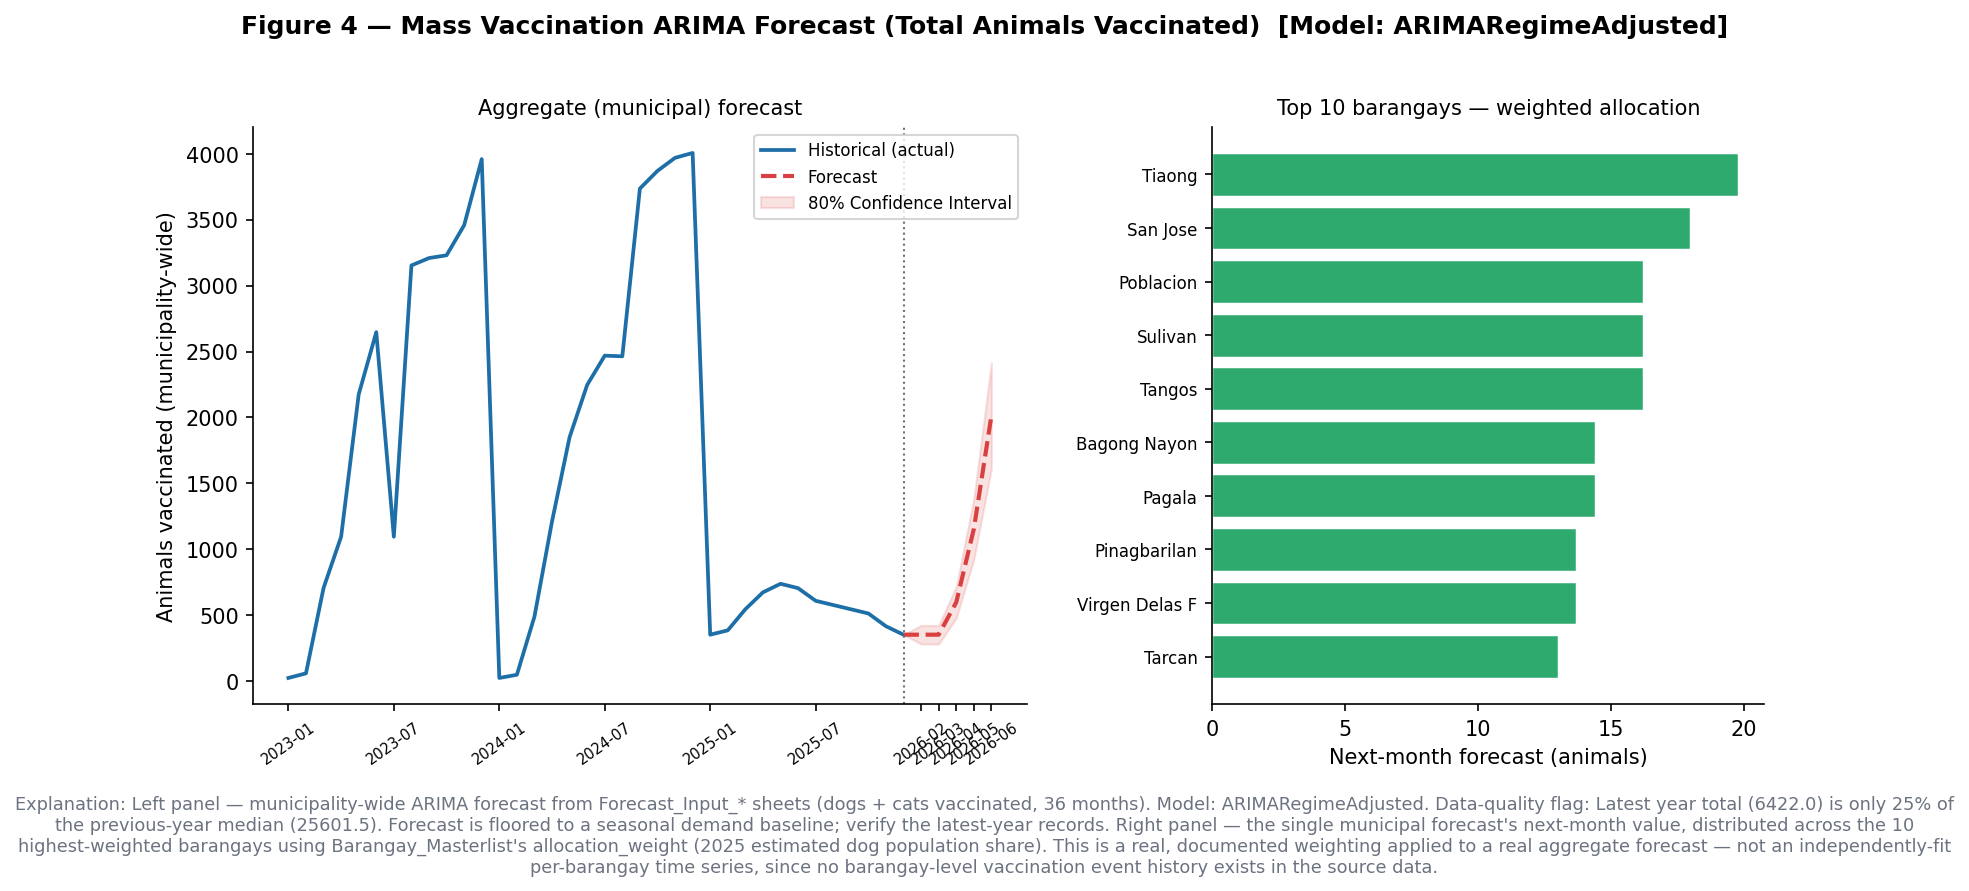
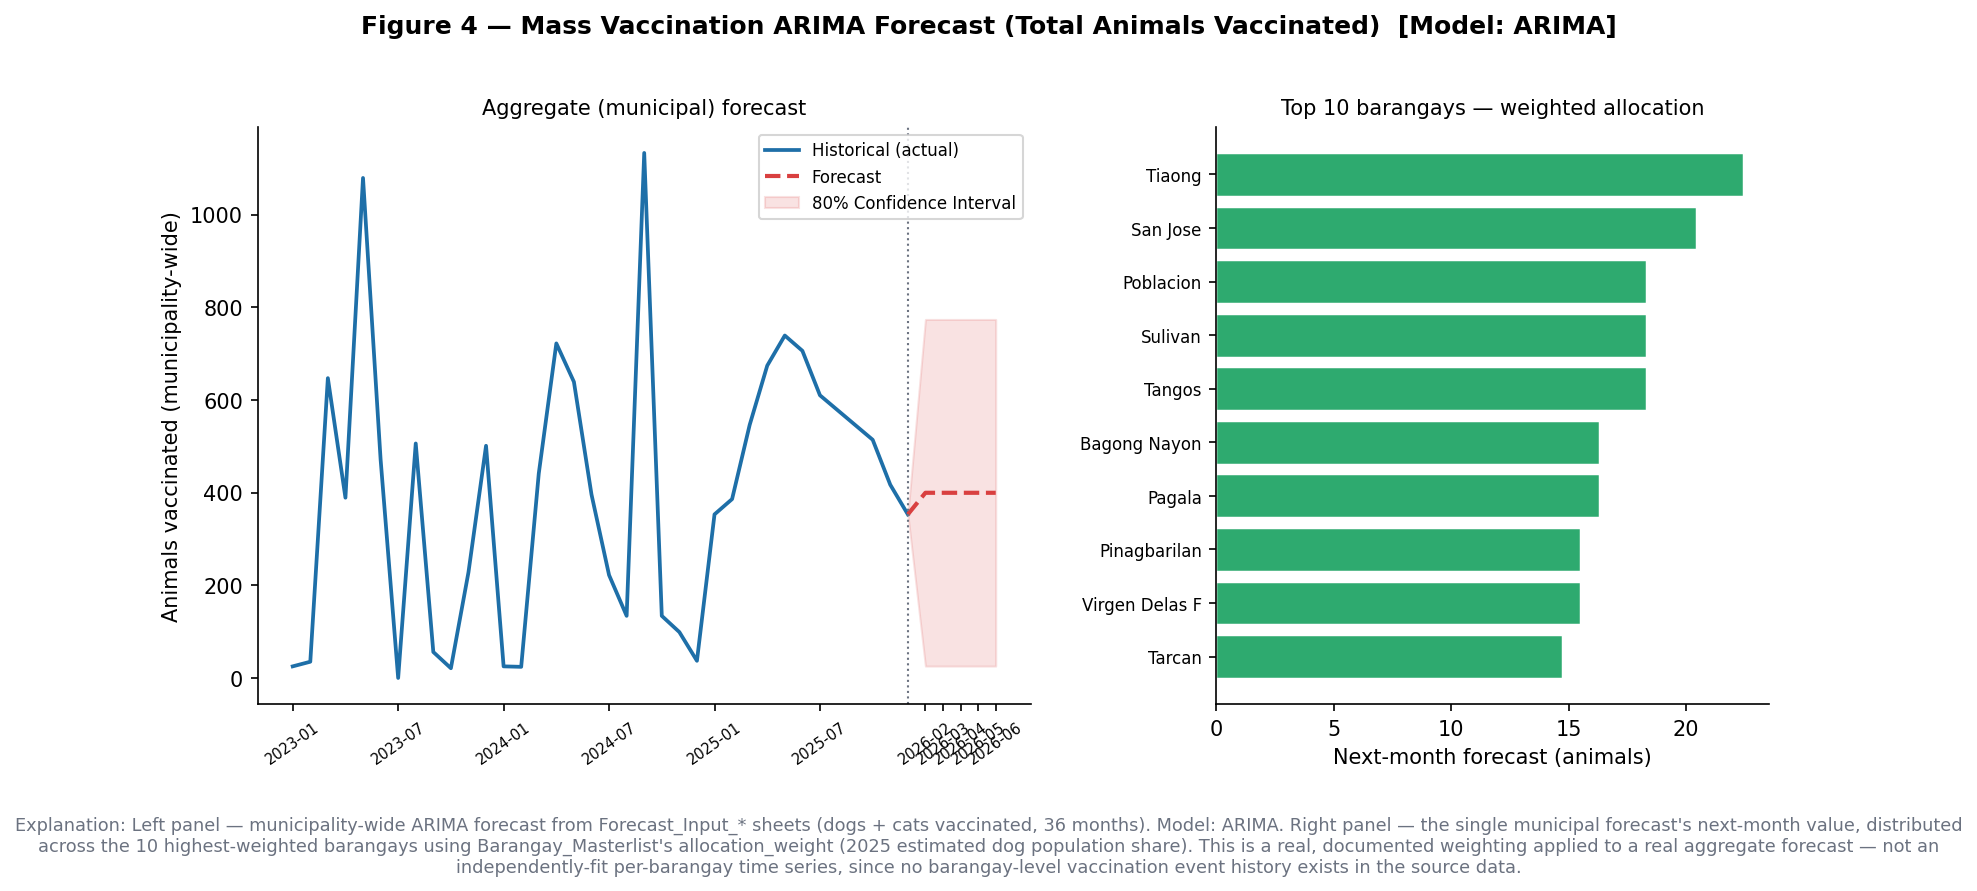
Fix test_eval.py for the 3-tuple series loader; correct stale Figure 4 text
load_vaccination_series() started returning (series_dict, dataframe, live_meta)
in 5ffa9dc when the live mass_vaccination_events feed was added. I checked call
sites inside arima_service.py but not the rest of the repo, so test_eval.py -
the thesis evaluation script - died with "too many values to unpack" at Figure
4 and never reached the ARIMA regression metrics below it. Fixed, and it now
prints the live-data state alongside the forecast.

Figure 4's interpretation was also stale: it claimed the model "accounts for
the 2023-2025 data-basis difference by flooring to a seasonal baseline". That
stopped being true once the workbook was de-cumulated - the guard no longer
fires and the fit is a clean ARIMA. The text now states the actual mechanism:
2023/24 are year-to-date running totals, de-cumulated before fitting, giving
3,959 / 4,006 / 6,422 instead of 24,815 / 26,388 / 6,422.

Only fig4_vaccination_forecast.png changed on regeneration; every disease
figure is byte-identical, confirming the disease pipeline is untouched.

Full run: PHPUnit 20/20, pytest 15/15, test_eval.py exits 0.

diff --git a/api/analytics/test_eval.py b/api/analytics/test_eval.py
@@ -354,7 +354,9 @@ from arima_service import (
     load_barangay_allocation_weights, forecast_vaccination_by_barangay,
 )
 
-vacc_series_dict, _ = load_vaccination_series()
+# load_vaccination_series() returns (series_dict, dataframe, live_meta) since the
+# live mass_vaccination_events feed was added.
+vacc_series_dict, _, vacc_live_meta = load_vaccination_series()
 vacc_series  = vacc_series_dict["total_vaccinated"]
 vacc_fc_steps = 6
 vacc_result  = run_vaccination_arima(vacc_series, steps=vacc_fc_steps)
@@ -428,6 +430,7 @@ plt.tight_layout()
 _save(fig, "fig4_vaccination_forecast.png")
 
 print(f"  Aggregate forecast: {vacc_result['forecast']}  |  Trend: {vacc_result['trend']}")
+print(f"  Forecast input     : {vacc_live_meta['source']}  |  live DB months available {vacc_live_meta['db_months_available']}, used {vacc_live_meta['db_months_used']} (threshold {vacc_live_meta['db_months_required']})")
 if note_txt:
     print(f"  Data quality note: {note_txt}")
 print("  Top 5 barangays (next-month allocation):")
@@ -436,10 +439,15 @@ for b, v in barangay_next_month[:5]:
 
 print(_wrap(
     "INTERPRETATION — Figure 4: The municipal forecast (left) is the only real, ARIMA-fitted "
-    "time series available for vaccination demand — it already accounts for the 2023-2025 "
-    "data-basis difference (see data-quality flag above; 2025 uses one official annual total "
-    "allocated across months rather than granular monthly logs, per the workbook's own README) "
-    "by flooring to a seasonal baseline. The per-barangay breakdown (right) answers the "
+    "time series available for vaccination demand. The workbook records 2023 and 2024 as "
+    "year-to-date running totals ('Photo-derived accomplishment summary') and 2025 as one "
+    "official annual total allocated across months, so the 2023/24 years are de-cumulated "
+    "back to monthly increments before fitting — see _decumulate_ytd_years(). Without that "
+    "step the summed cumulative columns read as 24,815 and 26,388 against 2025's genuine "
+    "6,422, the regime guard saw a 75% collapse, and every forecast was floored to a "
+    "seasonal baseline (model_type ARIMARegimeAdjusted). Corrected, the annual totals are "
+    "3,959 / 4,006 / 6,422 — vaccinations rose — and the model fits cleanly as ARIMA. "
+    "The per-barangay breakdown (right) answers the "
     "operational question 'how many doses per barangay' using a real population-based "
     "weighting, but should be reported as an allocation of the aggregate forecast, not as "
     "27 independently-validated barangay forecasts."
